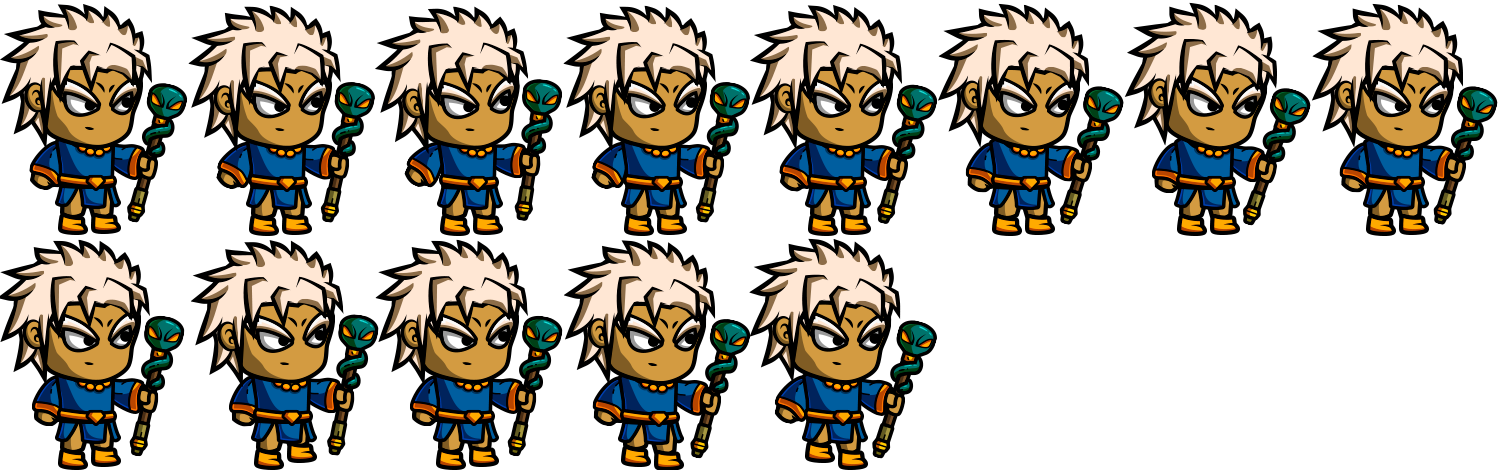
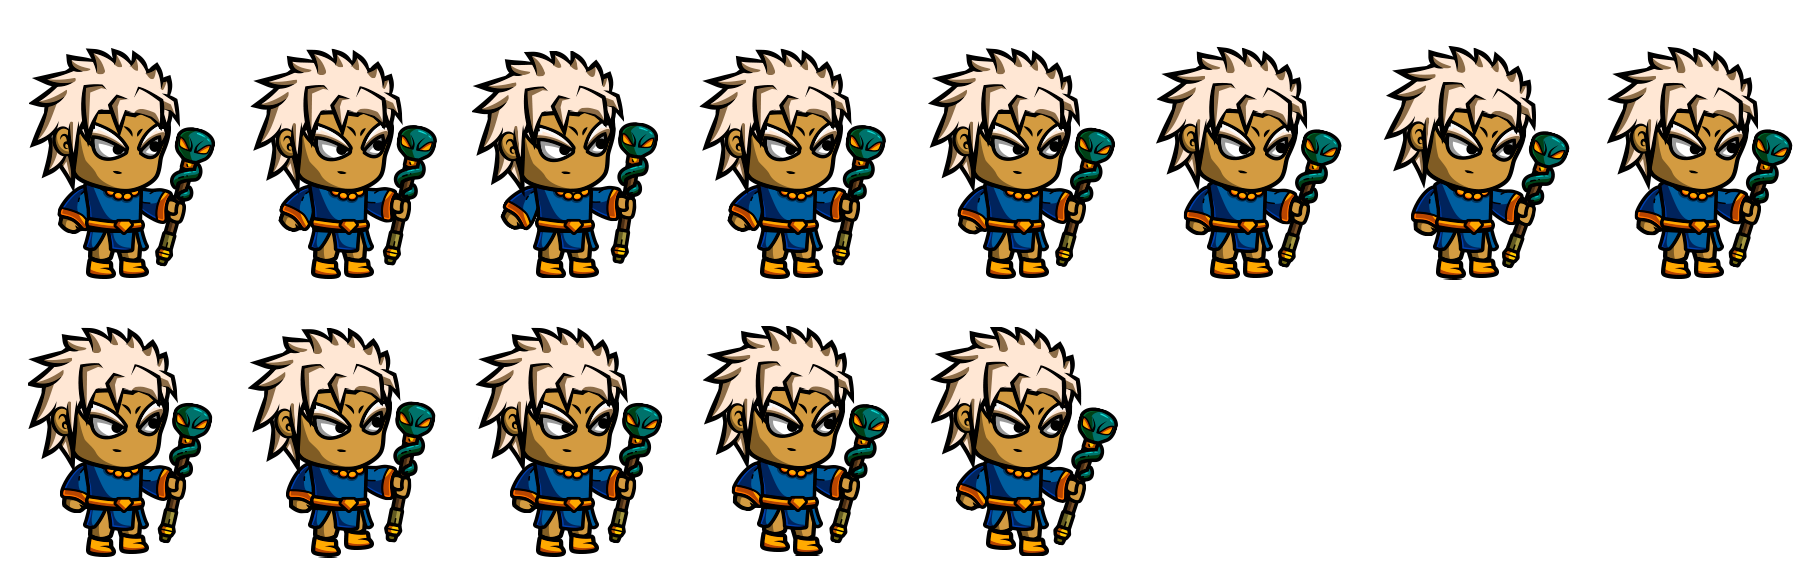
Animations and Movement

diff --git a/Project1/Player.cpp b/Project1/Player.cpp
@@ -20,29 +20,69 @@ namespace Insignia
 		_player1.setTexture(this->_data->assets.GetTexture("Player1"));
 		// Sets player2 texture.
 		_player2.setTexture(this->_data->assets.GetTexture("Player2"));
+
+		// Sets player1 origin to centre.
+		_player1.setOrigin(_player1.getScale().x / 2, _player1.getScale().y / 2);
+		// Sets player2 origin to centre.
+		_player2.setOrigin(_player2.getScale().x / 2, _player2.getScale().y / 2);
+
+
+		// Positions player1 into the centre of the screen.
+		_player1.setPosition(100, SCREEN_HEIGHT / 4);
+		// Positions player2 into the centre of the screen.
+		_player2.setPosition(SCREEN_WIDTH - 100, SCREEN_HEIGHT / 4);
+
+		// Flips player2 to face to opposite direction.
+		_player2.setScale(_player2.getScale().x * -1, _player2.getScale().y);
 	}
 
 	void Player::HandleInput()
 	{
-		
+		_player1.move(Movement(Keyboard::Key::W, Keyboard::S, Keyboard::A, Keyboard::D));
+		_player2.move(Movement(Keyboard::Up, Keyboard::Down, Keyboard::Left, Keyboard::Right));
 	}
 
 	void Player::Update(float delta)
 	{
-		if (this->_clock.getElapsedTime().asSeconds() > ANIM_FPS)
+		if(this->isWalking)
 		{
-			if (this->idlePos >= PLAYER1_IDLE.size() - 1)
+			if(this->_clock.getElapsedTime().asSeconds() > PLAYER_WALK_ANIM_TIME)
 			{
-				this->idlePos = 0;
+				if (this->walkingPos >= PLAYER1_WALK.size() - 1)
+				{
+					this->walkingPos = 0;
+				}
+
+				this->walkingPos++;
+
+				this->_clock.restart();
 			}
+		}
+		else
+		{
+			if (this->_clock.getElapsedTime().asSeconds() > PLAYER_IDLE_ANIM_TIME)
+			{
+				if (this->idlePos >= PLAYER1_IDLE.size() - 1)
+				{
+					this->idlePos = 0;
+				}
 
-			this->idlePos++;
+				this->idlePos++;
 
-			this->_clock.restart();
+				this->_clock.restart();
+			}
 		}
 
-		_player1.setTextureRect(PLAYER1_IDLE[this->idlePos]);
-		_player2.setTextureRect(PLAYER2_IDLE[this->idlePos]);
+		if (isWalking)
+		{
+			_player1.setTextureRect(PLAYER1_WALK[this->walkingPos]);
+			_player2.setTextureRect(PLAYER2_WALK[this->walkingPos]);
+		}
+		else
+		{
+			_player1.setTextureRect(PLAYER1_IDLE[this->idlePos]);
+			_player2.setTextureRect(PLAYER2_IDLE[this->idlePos]);
+		}
 	}
 
 	void Player::Draw(float delta)
@@ -50,4 +90,32 @@ namespace Insignia
 		this->_data->window.draw(this->_player1);
 		this->_data->window.draw(this->_player2);
 	}
+
+	Vector2f Player::Movement(Keyboard::Key Up, Keyboard::Key Down, Keyboard::Key Left, Keyboard::Key Right)
+	{
+		Vector2f move(0.0f, 0.0f);
+
+		if(Keyboard::isKeyPressed(Up))
+		{
+			move.y = this->_moveSpeed * -1.0f;
+		}
+
+		if (Keyboard::isKeyPressed(Down))
+		{
+			move.y = this->_moveSpeed;
+		}
+
+		if (Keyboard::isKeyPressed(Left))
+		{
+			move.x = this->_moveSpeed * -1.0f;
+		}
+
+		if (Keyboard::isKeyPressed(Right))
+		{
+			move.x = this->_moveSpeed;
+		}
+		
+		return move;
+	}
+
 }

diff --git a/Project1/DEFINITIONS.h b/Project1/DEFINITIONS.h
@@ -42,48 +42,49 @@ using namespace std;
 // Mage 1 Idle Anim
 const vector<IntRect> PLAYER1_IDLE
 {
-	{-3, 4, 188, 228},
-	{184, 4, 188, 228},
-	{371, 4, 188, 228},
-	{559, 4, 188, 228},
-	{747, 4, 188, 228},
-	{934, 4, 188, 228},
-	{1112, 4, 188, 228},
-	{1306, 4, 188, 228}
+	{10, 10, 215, 268},
+	{235, 10, 215, 268},
+	{460, 10, 215, 268},
+	{685, 10, 215, 268},
+	{910, 10, 215, 268},
+	{1135, 10, 215, 268},
+	{1361, 10, 215, 268},
+	{1586, 10, 215, 268}
 };
 // Mage 1 Walk Anim
 const vector<IntRect> PLAYER1_WALK
 {
-	{-3, 238, 188, 228},
-	{187, 238, 188, 228},
-	{374, 238, 188, 228},
-	{560, 238, 188, 228},
-	{747, 238, 188, 228}
+	{10, 288, 215, 268},
+	{235, 288, 215, 268},
+	{460, 288, 215, 268},
+	{685, 288, 215, 268},
+	{910, 288, 215, 268}
 };
 // Mage 2 sprite filepath
 #define PLAYER2_FILEPATH "data/res/game/players/Mage2.png"
 // Mage 2 Idle Anim
 const vector<IntRect> PLAYER2_IDLE
 {
-	{12, 14, 175, 238},
-	{199, 14, 175, 238},
-	{385, 14, 175, 238},
-	{576, 14, 175, 238},
-	{761, 14, 175, 238},
-	{945, 14, 175, 238},
-	{1133, 14, 175, 238},
-	{1320, 14, 175, 238},
+	{10, 10, 205, 268},
+	{225, 10, 205, 268},
+	{439, 10, 205, 268},
+	{654, 10, 205, 268},
+	{869, 10, 205, 268},
+	{1083, 10, 205, 268},
+	{1298, 10, 205, 268},
+	{1512, 10, 205, 268}
 };
 // Mage 2 Walk Anim
 const vector<IntRect> PLAYER2_WALK
 {
-	{12, 258, 175, 238},
-	{202, 258, 175, 238},
-	{389, 258, 175, 238},
-	{576, 258, 175, 238},
-	{759, 258, 175, 238}
+	{10, 288, 205, 268},
+	{225, 288, 205, 268},
+	{439, 288, 205, 268},
+	{654, 288, 205, 268},
+	{869, 288, 205, 268}
 };
 
-#define ANIM_FPS 0.125f
+#define PLAYER_IDLE_ANIM_TIME 0.25f
+#define PLAYER_WALK_ANIM_TIME 0.1f
 #pragma endregion
 #pragma endregion

diff --git a/Project1/GameState.cpp b/Project1/GameState.cpp
@@ -6,7 +6,7 @@ namespace Insignia
 {
 	GameState::GameState(GameDataRef data) : _data(data)
 	{
-
+		
 	}
 
 	void GameState::Init()
@@ -38,6 +38,7 @@ namespace Insignia
 	{
 		for (auto& entity : this->entities)
 		{
+			entity->HandleInput();
 			entity->Update(delta);
 		}
 	}

diff --git a/Project1/Player.h b/Project1/Player.h
@@ -33,5 +33,10 @@ namespace Insignia
 		sf::Clock _clock;
 
 		int idlePos = 0;
+		int walkingPos = 0;
+
+		Vector2f Movement(Keyboard::Key Up, Keyboard::Key Down, Keyboard::Key Left, Keyboard::Key Right);
+		float _moveSpeed = 1.f;
+		bool isWalking = false;
 	};
 }
